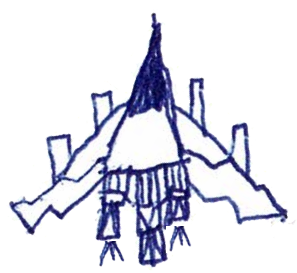
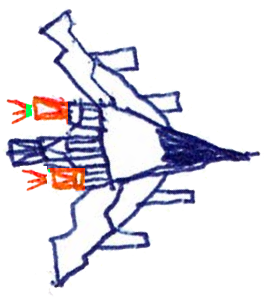
Added engine burn

diff --git a/lib/player.py b/lib/player.py
@@ -7,6 +7,9 @@ class Player(Mobile):
     def __init__(self, gameconfig):
         self.scale = gameconfig.player_image_scale
         self.imagename = "resources/player.png"
+        self.burning = False
+        self.default_image = pygame.image.load(self.imagename).convert_alpha()
+        self.engine_image = pygame.image.load("resources/player_flaming.png").convert_alpha()
         super().__init__(gameconfig)
 
     def get_starting_pos(self):
@@ -18,8 +21,21 @@ class Player(Mobile):
             self.rotate_left(self.gameconfig.player_rotate_speed)
         elif keys[pygame.K_LEFT]:
             self.rotate_right(self.gameconfig.player_rotate_speed)
+
         if keys[pygame.K_UP]:
             self.add_speed(self.gameconfig.player_speed)
+            self.toggle_burn_details(True)
+        elif self.burning:
+            self.toggle_burn_details(False)
+
+    def toggle_burn_details(self, set_on=False):
+        if set_on:
+            if not self.burning:
+                self.burning = True
+                self.image = pygame.transform.smoothscale(self.engine_image, (self.scale, self.scale))
+        elif self.burning:
+            self.image = pygame.transform.smoothscale(self.default_image, (self.scale, self.scale))
+            self.burning = False
 
     def add_speed(self, speed):
         self.speed += speed
